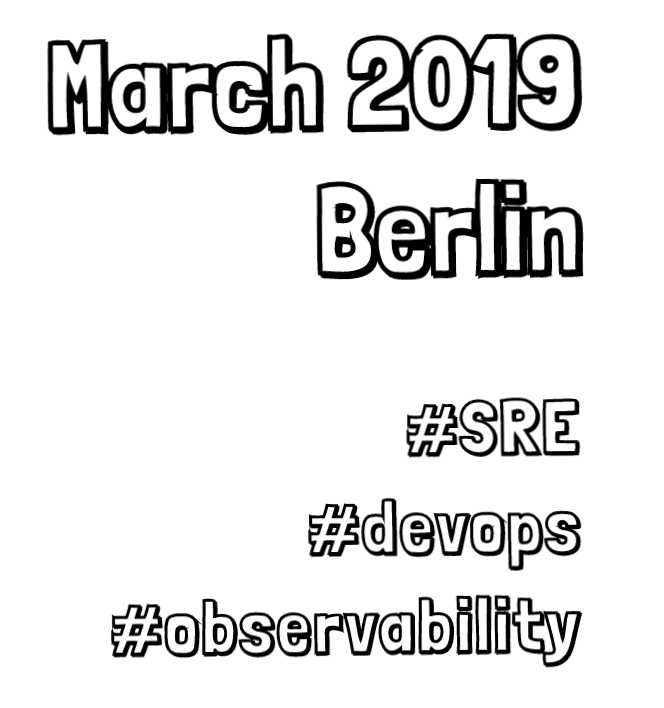
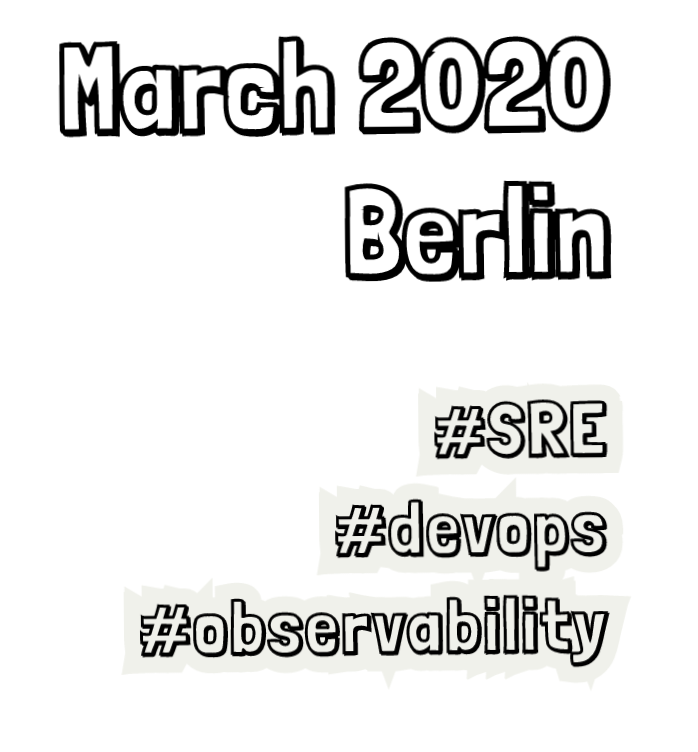
Adjust year.

Changed region(s): [[0.1506, 0.5282, 0.8735, 0.9633], [0.0602, 0.0311, 0.9036, 0.2175], [0.4518, 0.2175, 0.9036, 0.404]]

diff --git a/docs/index.html b/docs/index.html
@@ -4,7 +4,7 @@
     <style>
         img.logo {
             position: absolute;
-            top: 200px;
+            top: 300px;
             left: 45%;
             width: 600px;
             margin-top: -250px;
@@ -14,11 +14,10 @@
         img.text {
             position: absolute;
             top: 700px;
-            left: 60%;
-            right: 40%;
-            width: 300px;
+            left: 50%;
+            width: 350px;
             margin-top: -250px;
-            margin-left: -250px;
+            margin-left: -200px;
         }
     </style>
 </head>
